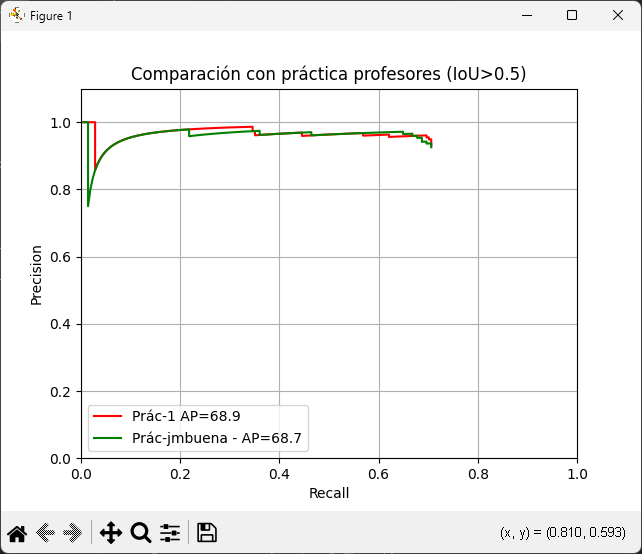
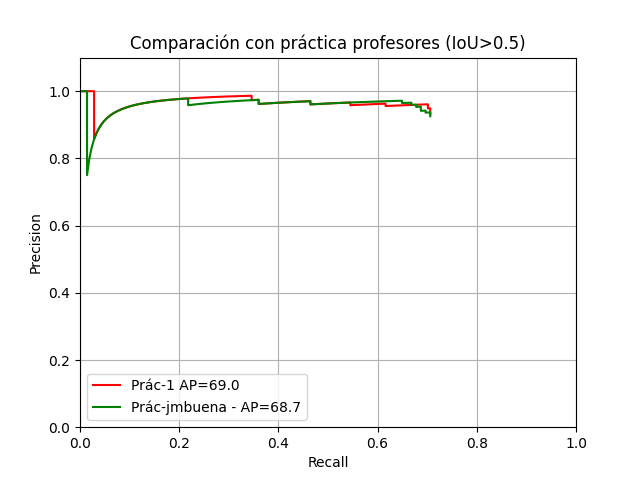
better performance

diff --git a/main.py b/main.py
@@ -12,8 +12,8 @@ max_variation=0.01
 top_ratio = 9.0 # Mantener
 bottom_ratio = 0.2 # Mantener
 resize_percentage = 0.05
-alto = 50
-ancho = 100
+alto = 30
+ancho = 60
 azul_bajos = np.array([90, 60, 40], dtype=np.uint8) # Mantener
 azul_altos = np.array([150, 255, 255], dtype=np.uint8) # Mantener
 mascara_ideal = np.ones((alto, ancho), dtype=np.float32)
